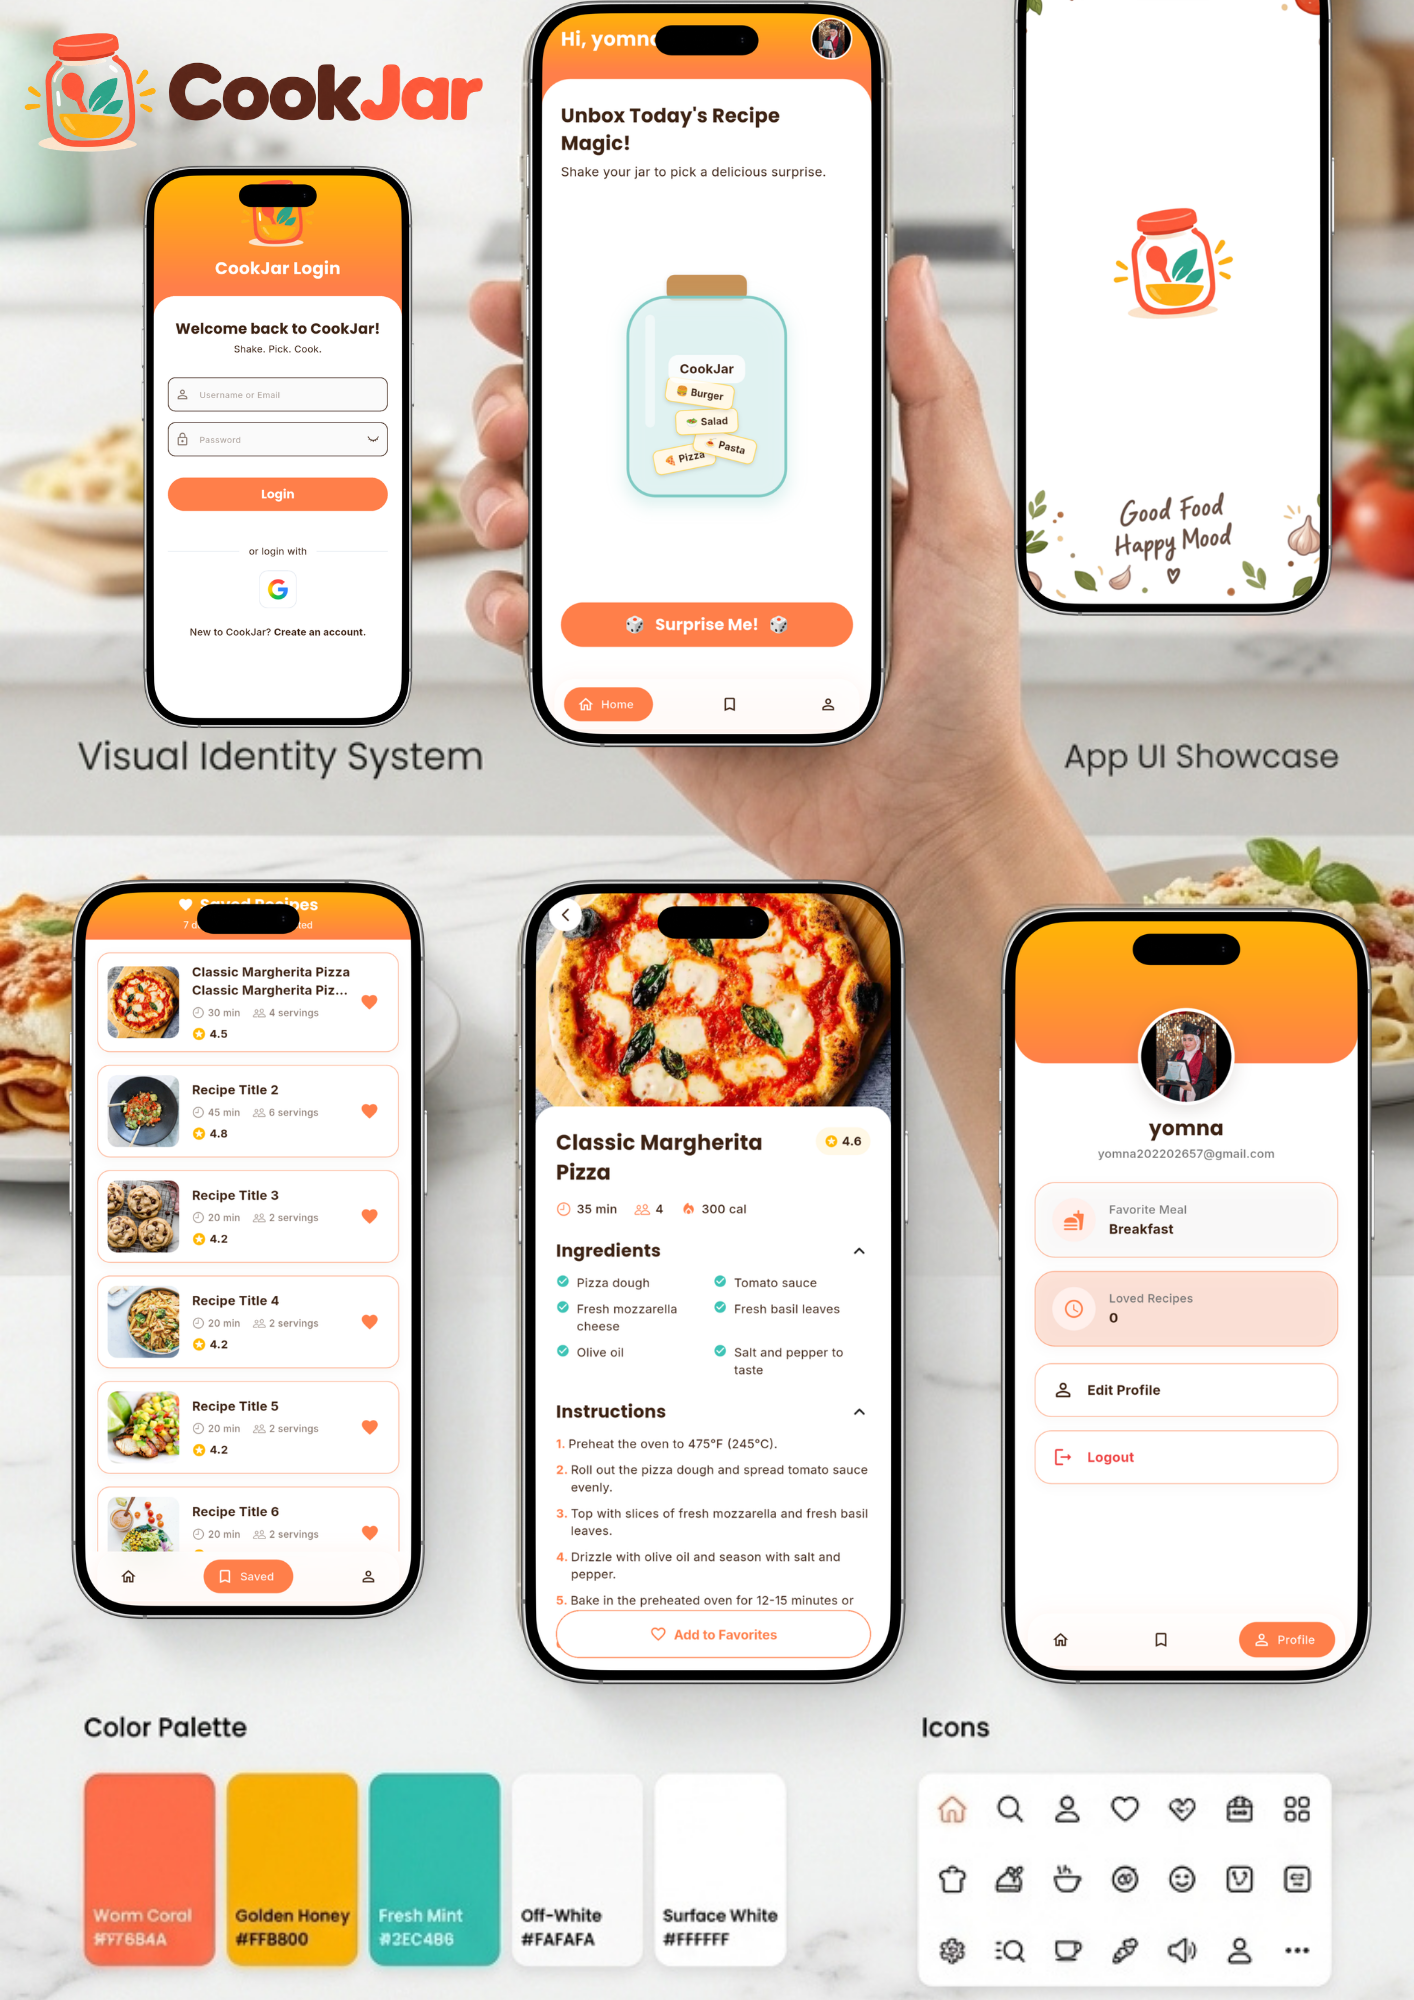
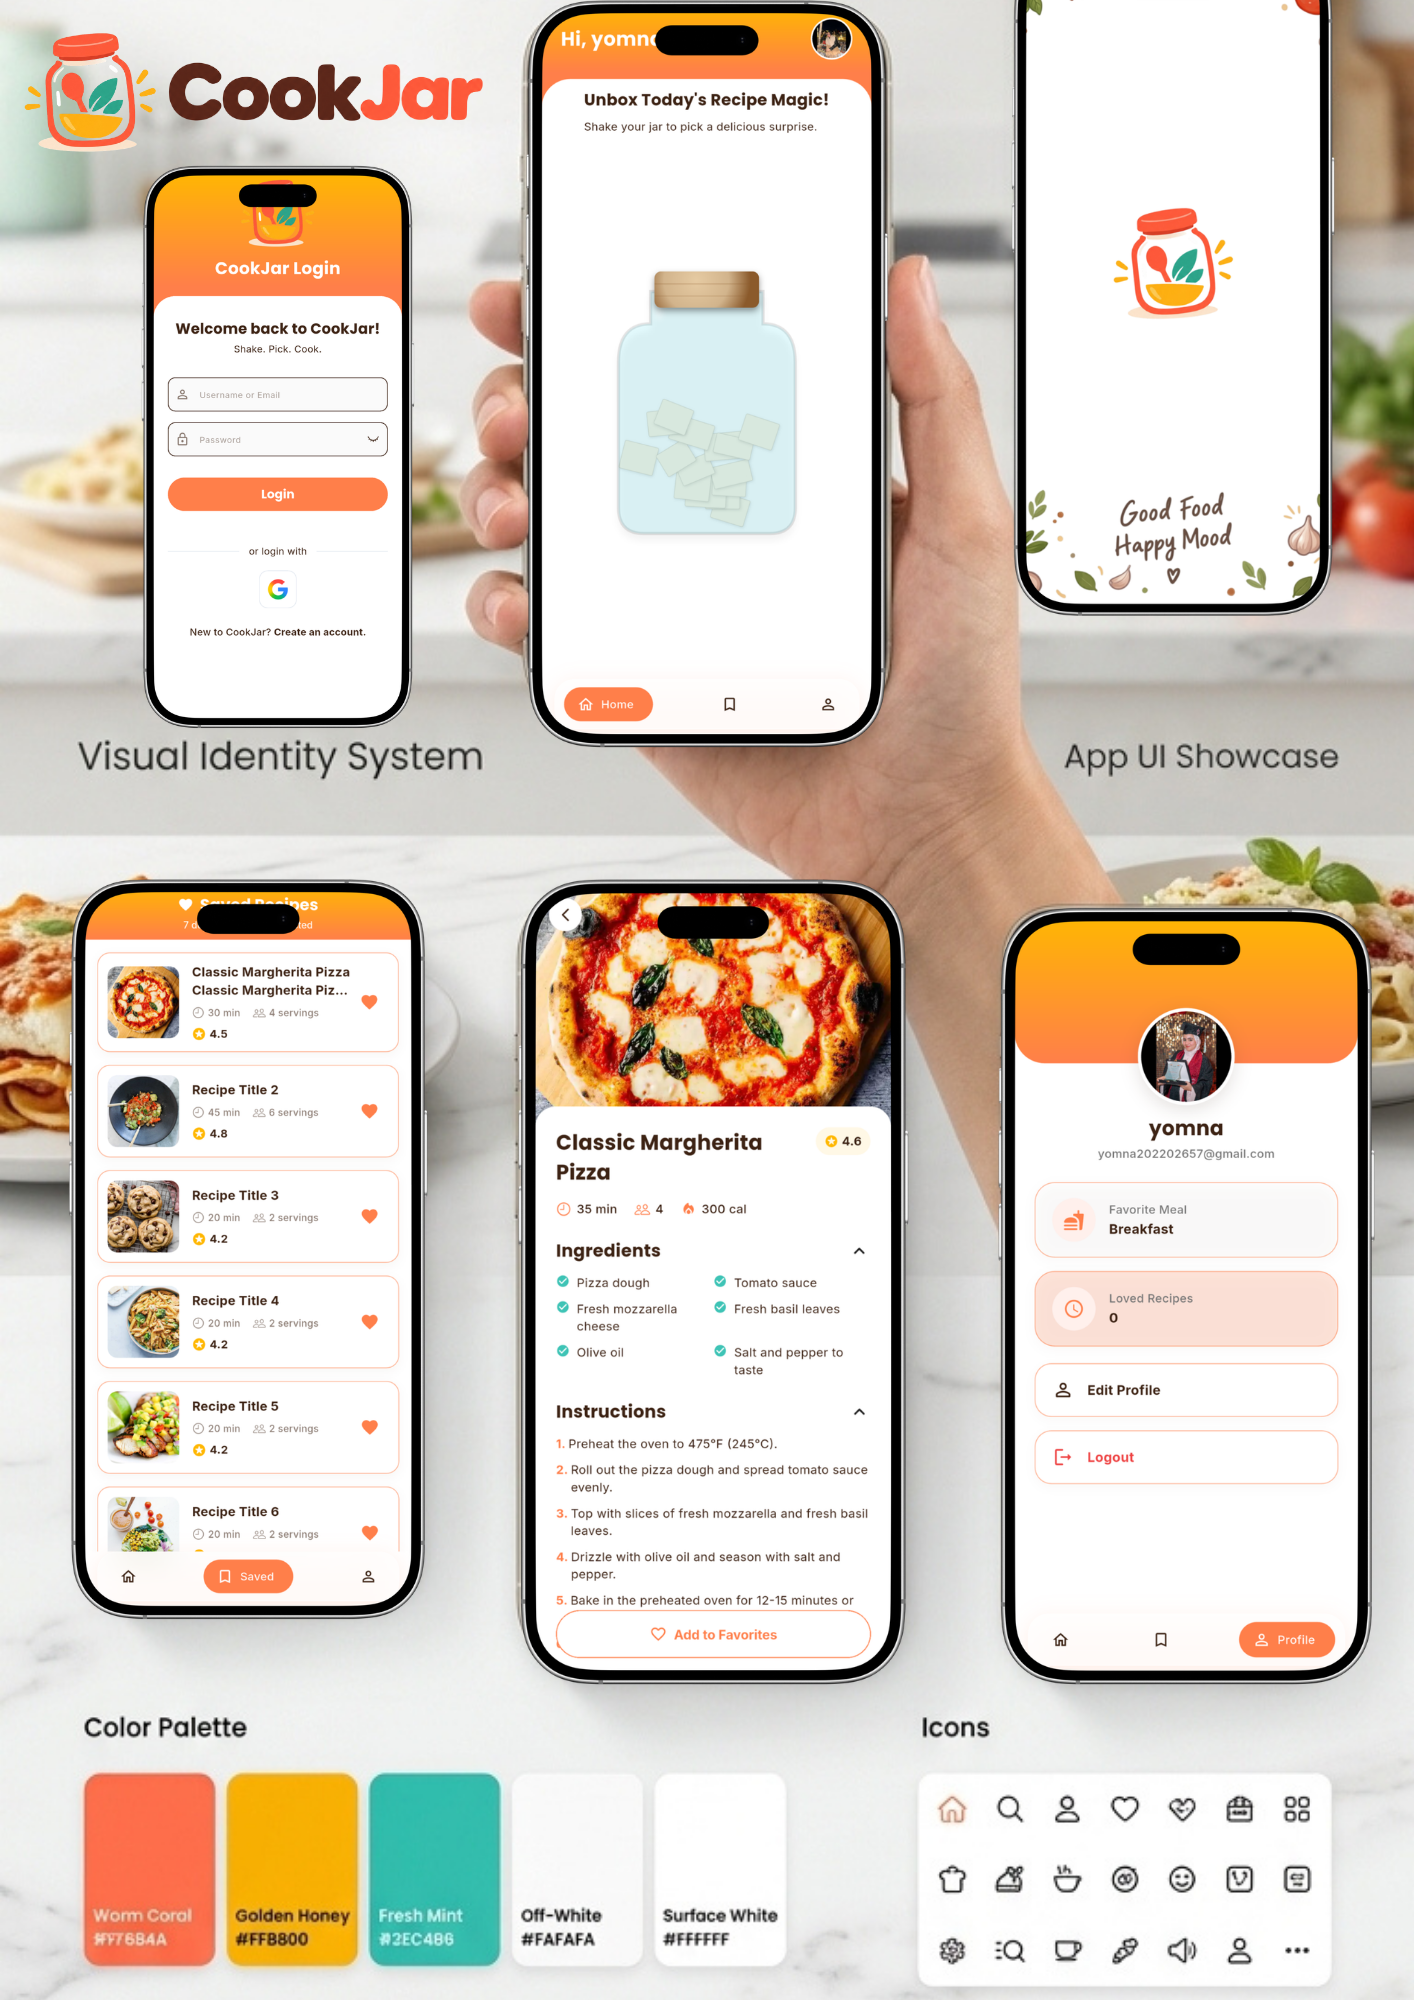
feat: update README for clarity and enhance profile stats section with live data

Changed region(s): [[0.4045, 0.124, 0.6223, 0.341], [0.4045, 0.0, 0.6223, 0.093]]

diff --git a/lib/features/home/presentation/view/home_view.dart b/lib/features/home/presentation/view/home_view.dart
@@ -1,6 +1,7 @@
 import 'package:cookjar/core/di/service_locator.dart';
 import 'package:cookjar/core/routes/routes.dart';
 import 'package:cookjar/core/utils/colors/app_colors.dart';
+import 'package:cookjar/core/widgets/buttons/main_button.dart';
 import 'package:cookjar/features/home/presentation/view/widgets/home_header.dart';
 import 'package:cookjar/features/home/presentation/view/widgets/home_welcome_text.dart';
 import 'package:cookjar/features/jar/data/repo/recipe_repo.dart';
@@ -82,27 +83,27 @@ class _HomeViewState extends State<HomeView> {
                         // Welcoming Title & Subtitle
                         const HomeWelcomeText(),
 
-                        const Gap(4),
-
-                        Expanded(
-                          child: Builder(
-                            builder: (context) => AnimatedCookJar(
-                              recipeRepo: getIt<RecipeRepo>(),
-                              isRtl:
-                                  Directionality.of(context) ==
-                                  TextDirection.rtl,
-                              controller: _jarController,
-                              onCookNow: (recipe) {
-                                context.push(
-                                  Routes.recipeDetails,
-                                  extra: recipe,
-                                );
-                              },
-                              onAddToFavorite: (recipe) {
-                                context.read<AddSavedRecipeCubit>().addRecipe(
-                                  recipe,
-                                );
-                              },
+                        Center(
+                          child: Expanded(
+                            child: Builder(
+                              builder: (context) => AnimatedCookJar(
+                                recipeRepo: getIt<RecipeRepo>(),
+                                isRtl:
+                                    Directionality.of(context) ==
+                                    TextDirection.rtl,
+                                controller: _jarController,
+                                onCookNow: (recipe) {
+                                  context.push(
+                                    Routes.recipeDetails,
+                                    extra: recipe,
+                                  );
+                                },
+                                onAddToFavorite: (recipe) {
+                                  context.read<AddSavedRecipeCubit>().addRecipe(
+                                    recipe,
+                                  );
+                                },
+                              ),
                             ),
                           ),
                         ),

diff --git a/lib/features/profile/presentation/view/widgets/profile_stats_section.dart b/lib/features/profile/presentation/view/widgets/profile_stats_section.dart
@@ -2,10 +2,13 @@ import 'package:cookjar/core/utils/colors/app_colors.dart';
 import 'package:cookjar/features/profile/presentation/view/widgets/profile_info_card.dart';
 import 'package:flutter/material.dart';
 import 'package:gap/gap.dart';
+import 'package:hive_flutter/hive_flutter.dart';
+import 'package:cookjar/core/di/service_locator.dart';
+import 'package:cookjar/core/services/cache/hive/hive_service.dart';
 
 class ProfileStatsSection extends StatelessWidget {
   final String favoriteMeal;
-  final int savedRecipesCount;
+  final int? savedRecipesCount;
 
   const ProfileStatsSection({
     super.key,
@@ -30,13 +33,18 @@ class ProfileStatsSection extends StatelessWidget {
           ),
           const Gap(16),
           // Loved Recipes Card
-          ProfileInfoCard(
-            icon: Icons.access_time_rounded,
-            iconColor: AppColors.warmCoral,
-            iconBackgroundColor: AppColors.lightCoral,
-            cardBackgroundColor: AppColors.warmCoral.withValues(alpha: 0.2),
-            title: "Loved Recipes",
-            value: "$savedRecipesCount",
+          ValueListenableBuilder(
+            valueListenable: getIt<HiveService>().recipesBox.listenable(),
+            builder: (context, box, child) {
+              return ProfileInfoCard(
+                icon: Icons.access_time_rounded,
+                iconColor: AppColors.warmCoral,
+                iconBackgroundColor: AppColors.lightCoral,
+                cardBackgroundColor: AppColors.warmCoral.withValues(alpha: 0.2),
+                title: "Loved Recipes",
+                value: "${box.length}",
+              );
+            },
           ),
         ],
       ),

diff --git a/README.md b/README.md
@@ -1,80 +1,114 @@
 <div align="center">
 
-# 🫙 CookJar
+<img src="assets\images\logo.png" width="110" alt="CookJar Logo" />
 
-### Shake. Pick. Cook.
+<img src="assets\images\name.png" width="260" alt="CookJar" />
 
-*Good Food, Happy Mood.*
+### Shake the Jar. Get a Recipe. Cook it.
 
-![Flutter](https://img.shields.io/badge/Flutter-3.12-02569B?style=for-the-badge&logo=flutter&logoColor=white)
-![Dart](https://img.shields.io/badge/Dart-3.12-0175C2?style=for-the-badge&logo=dart&logoColor=white)
-![Firebase](https://img.shields.io/badge/Firebase-Auth-FFCA28?style=for-the-badge&logo=firebase&logoColor=black)
-![State Management](https://img.shields.io/badge/State-Bloc%2FCubit-6C4E9C?style=for-the-badge)
-![Status](https://img.shields.io/badge/status-in%20development-FF8A00?style=for-the-badge)
+A fun, minimal recipe discovery app built around an interactive **Recipe Jar** — shake it, and let it surprise you with something delicious.
+
+[![Flutter](https://img.shields.io/badge/Flutter-3.x-02569B?logo=flutter&logoColor=white)](https://flutter.dev)
+[![Dart](https://img.shields.io/badge/Dart-3.x-0175C2?logo=dart&logoColor=white)](https://dart.dev)
+[![Firebase](https://img.shields.io/badge/Firebase-Auth-FFCA28?logo=firebase&logoColor=black)](https://firebase.google.com)
+[![Hive](https://img.shields.io/badge/Hive-Local%20Storage-FFB800)](https://pub.dev/packages/hive)
+[![State Management](https://img.shields.io/badge/State%20Management-Cubit-3EC486)](https://bloclibrary.dev)
 
 </div>
 
 ---
 
-## 🍽 What is CookJar?
+## 📖 Overview
 
-Can't decide what to cook? **Shake the jar.**
+**CookJar** turns recipe discovery into a small daily ritual. Instead of scrolling endlessly through a recipe feed, users tap **Shake the Jar** and get a random recipe pulled straight from the jar — with the option to reshake, view full details, or save it to their personal collection for later.
 
-CookJar turns "what should I eat today?" into a small moment of fun instead of another decision to make. Shake the jar, get a recipe, and start cooking — with full ingredients, step-by-step instructions, and a place to keep the ones you love.
+The app is built as a portfolio-grade Flutter project, demonstrating clean architecture, REST API integration, Firebase Authentication, local persistence with Hive, and Cubit-based state management.
 
-> Simple Recipes. Big Happiness.
+```
+Shake the Jar → Get a Recipe → View Details → Save it for Later
+```
 
-## 🎥 Presentation
+---
 
-<!-- 🔗 TODO: add your presentation link here -->
-**[▶ Watch the project presentation]([PRESENTATION_LINK_HERE](https://canva.link/a6b7dukfi0r1u88))**
+## 📱 App Showcase
 
-## 🎨 Design System
+<div align="center">
+<img src="assets\images\CookJar-poster.png" width="850" alt="CookJar App Showcase" />
+</div>
 
-CookJar's look is warm, playful, and food-first — built around a jar you can actually shake.
-
-<p align="center">
-  <img width="1254" height="1254" alt="design-system" src="https://github.com/user-attachments/assets/879bcde1-94b7-47de-b739-1ece066aaece" />
-</p>
-
-| Token | Value | Swatch |
-|---|---|---|
-| Warm Coral | `#FF8A00` | 🟧 |
-| Golden Honey | `#FFB800` | 🟨 |
-| Fresh Mint | `#2EC4B6` | 🟩 |
-| Off-White | `#FAFAFA` | ⬜ |
-| Surface White | `#F5F5F5` | ⬜ |
-
-**Typography:** [Poppins](https://fonts.google.com/specimen/Poppins) for headings, [Inter](https://fonts.google.com/specimen/Inter) for body text.
-
-<!--
-| Home | Shake the Jar | Recipe Details | Saved |
-|---|---|---|---|
-| <img src="docs/readme/screenshots/home.png" width="200"> | <img src="docs/readme/screenshots/jar.png" width="200"> | <img src="docs/readme/screenshots/recipe_details.png" width="200"> | <img src="docs/readme/screenshots/saved.png" width="200"> |
--->
+---
 
 ## ✨ Features
 
-- 🫙 **Shake the Jar** — shake to get a random recipe suggestion
-- 🔐 **Auth** — email/password sign up & login via Firebase
-- 👤 **Personalized Profile** — favorite meal, saved recipe count, editable profile
-- 🍳 **Recipe Details** — ingredients, step-by-step instructions, time, servings, and calories at a glance
-- ❤ **Save to "My Love"** — build a personal collection of favorite recipes
-- 🎨 **Consistent design system** — one warm, cohesive visual language across every screen
+- 🔐 **Firebase Authentication** — email/password sign up, login, and session persistence
+- 📝 **Guided Onboarding** — lightweight "Complete Profile" step (photo, display name, favorite meal type)
+- 🫙 **Interactive Recipe Jar** — a playful shake animation that surfaces a random recipe from the API
+- 🍽 **Recipe Details** — hero image, ratings, prep/cook time, servings, difficulty, ingredients, and step-by-step instructions
+- ❤ **Favorites ("Love") with Hive** — save recipes locally for offline access
+- 👤 **Profile & Stats** — displays loved-recipes count, favorite meal tag, and account actions
+- 🎨 **Custom Design System** — a cohesive color palette, icon set, and reusable UI components
+
+---
+
+## 🧠 App Flow
+
+```
+Splash Screen
+  ├── Authentication
+  │     ├── Login
+  │     ├── Register
+  │     └── Complete Profile
+  └── Main App (Bottom Navigation)
+        ├── Home            → Shake the Jar → Recipe Preview → Recipe Details
+        ├── Love             → Saved Recipes → Shake From Favorites
+        └── Profile          → Stats & Account Settings
+```
+
+**Home Jar** pulls from all API recipes (online discovery), while the **Love Jar** shakes strictly through your Hive-saved favorites.
+
+---
 
 ## 🛠 Tech Stack
 
-| Layer | Tools |
+| Layer | Technology |
 |---|---|
-| Framework | Flutter, Dart |
-| State Management | flutter_bloc (Cubit) |
-| Dependency Injection | get_it |
-| Routing | go_router |
-| Networking | dio |
-| Auth | firebase_auth |
-| Local Storage | shared_preferences, flutter_secure_storage |
-| Config | flutter_dotenv |
-| Animations | lottie |
+| Framework | Flutter |
+| Language | Dart |
+| Authentication | Firebase Authentication |
+| Recipe Data | [DummyJSON Recipes API](https://dummyjson.com/recipes) |
+| Local Storage | Hive |
+| State Management | Cubit |
+| Architecture | Clean Architecture (feature-first) |
+
+---
+
+
+## 🌐 API Reference
+
+CookJar fetches recipe data from the free [DummyJSON Recipes API](https://dummyjson.com/recipes):
+
+```
+GET https://dummyjson.com/recipes
+```
+
+Each recipe includes ingredients, step-by-step instructions, prep/cook time, servings, difficulty, cuisine, calories, tags, rating, and image — everything needed to power the Recipe Details screen.
+
+---
+
+## 🎨 Design System
+
+| Color | Hex |
+|---|---|
+| 🟠 Warm Coral | `#FF6B4A` |
+| 🟡 Golden Honey | `#FFB800` |
+| 🟢 Fresh Mint | `#3EC486` |
+| ⚪ Off-White | `#FAFAFA` |
+| ⚪ Surface White | `#FFFFFF` |
+
+> See the swatches in the [App Showcase](#-app-showcase) image above for the full visual palette and icon set.
+
+---
+
 
 ## 🏗 Architecture
 
@@ -98,48 +132,60 @@ lib/
 
 Data flows one way: **View → Cubit → Repo → Remote Data Source → API**, with every dependency wired through `get_it` and every screen reacting to a typed, sealed `State`.
 
+---
+
 ## 🚀 Getting Started
 
-```bash
-# 1. Clone the repo
-git clone <your-repo-url>
-cd cookjar
+### Prerequisites
 
-# 2. Install dependencies
-flutter pub get
+- [Flutter SDK](https://docs.flutter.dev/get-started/install) (stable channel)
+- A configured [Firebase](https://firebase.google.com) project (for Authentication)
+- Android Studio / VS Code with the Flutter & Dart plugins
 
-# 3. Add your environment file
-# Create a .env file in the project root with:
-# BASE_URL=https://dummyjson.com
-# FIREBASE_WEB_API_KEY=...
-# (see .env.example if available)
+### Installation
 
-# 4. Run the app
-flutter run
-```
+1. **Clone the repository**
+   ```bash
+   git clone https://github.com/mohamed-dev-404/cookjar.git
+   cd cookjar
+   ```
 
-## 👥 Team
+2. **Install dependencies**
+   ```bash
+   flutter pub get
+   ```
 
-<!-- TODO: add your team -->
+3. **Set up Firebase**
+   - Create a project in the [Firebase Console](https://console.firebase.google.com/)
+   - Enable **Email/Password Authentication**
+   - Add your Android/iOS app and download `google-services.json` / `GoogleService-Info.plist`
+   - Generate `firebase_options.dart` using the FlutterFire CLI:
+     ```bash
+     flutterfire configure
+     ```
 
-| Name              |
-| ----------------- |
-| Nouran Nasser     |
-| Yomna Abdelmedeed |
-| Mohamed Ibrahim   |
-| Aya Eid           |
-| Radwa Mahmoud            |
+4. **Run the app**
+   ```bash
+   flutter run
+   ```
 
+---
 
-## 📄 License
+## 🧩 Core Screens
 
-<!-- TODO: add a license if this project has one -->
-This project is for educational purposes.
+| Screen | Description |
+|---|---|
+| Splash | Checks auth state and routes to Login or Home |
+| Login / Register | Firebase-backed authentication flow |
+| Complete Profile | Collects display name, photo, and favorite meal type |
+| Home | Hosts the interactive jar and "Shake the Jar" flow |
+| Recipe Details | Full recipe view with ingredients, instructions, and favorite toggle |
+| Love | Saved favorites, backed by Hive|
+| Profile | User info, stats, and account actions |
+
 
 ---
 
 <div align="center">
-
-**Made with 🧡 and a little shaking.**
-
+Made with 💛 and Flutter
 </div>
